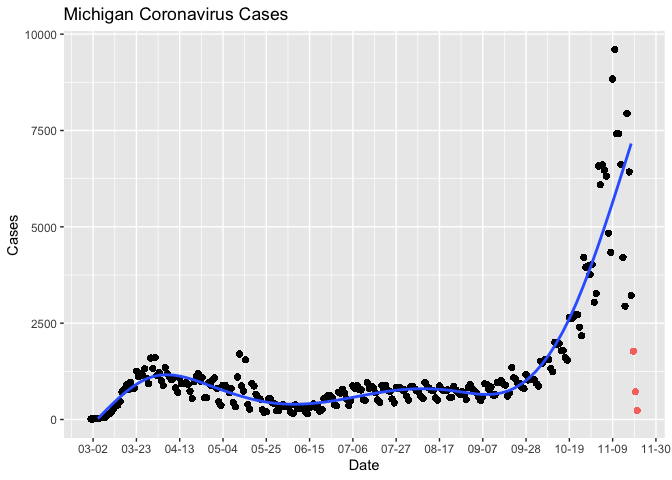
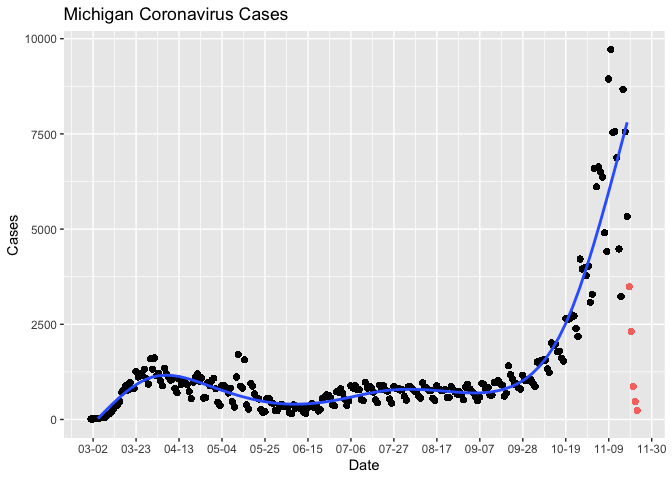
11-23-2020

diff --git a/MiCorona.md b/MiCorona.md
@@ -6,7 +6,7 @@ Nov 23, 2020
 Read in data:
 
 ``` r
-link = "https://www.michigan.gov/documents/coronavirus/Cases_and_Deaths_by_County_and_by_Date_of_Symptom_Onset_or_by_Date_of_Death2020-11-21_708512_7.xlsx"
+link = "https://www.michigan.gov/documents/coronavirus/Cases_and_Deaths_by_County_and_by_Date_of_Symptom_Onset_or_by_Date_of_Death2020-11-23_708630_7.xlsx"
 download.file(link, destfile = "/tmp/file.xlsx")
 
 mi_data = readxl::read_excel("/tmp/file.xlsx")
@@ -76,5 +76,5 @@ mi_cases_by_day_exclusive %>%
 
 ![](MiCorona_files/figure-gfm/viz-1.png)<!-- -->
 
-Note that the last 3 days of data have been colored red on the graph, as
+Note that the last 5 days of data have been colored red on the graph, as
 they frequently change as more information becomes available.
